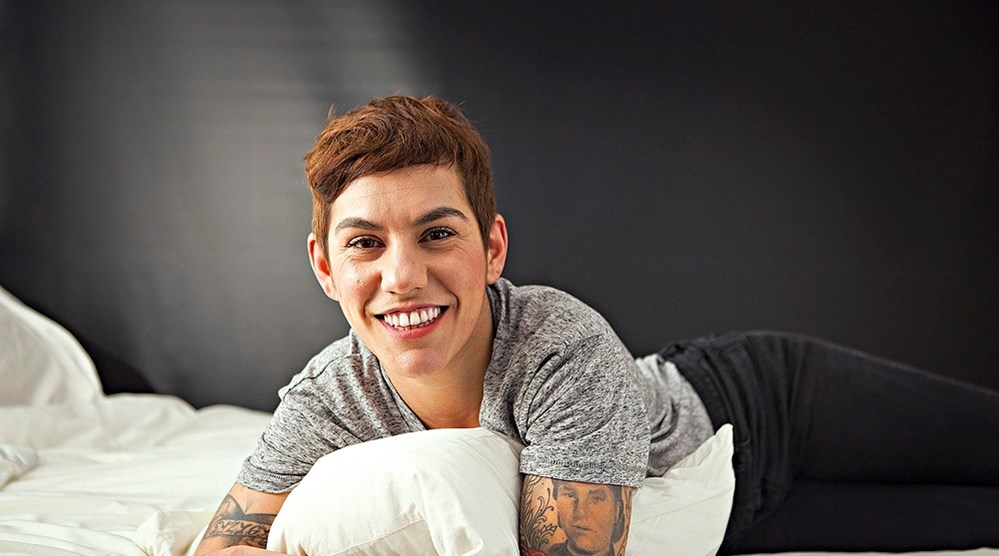
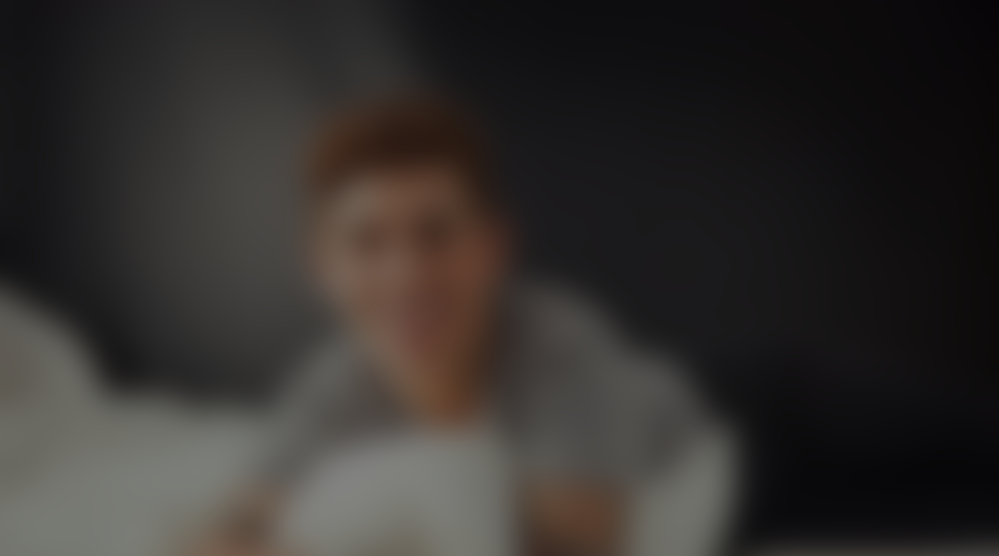
Updates template

diff --git a/assets/css/main.css b/assets/css/main.css
@@ -15,7 +15,7 @@ a:hover {
 
 header {
     width: 100%;
-    margin-top: 50px;
+    margin-top: 120px;
     min-height: 100px;
     margin-left: 20px;
 }
@@ -32,6 +32,24 @@ h1.t-large {
 h1.t-small {
     font-size: 2.3em;
     font-size: 8vw;
+}
+
+/********
+ * Menu *
+ ********/
+
+ul#left-menu {
+    background-color: #1a1a1a;
+    padding-top: 12px;
+}
+
+
+ul#left-menu li > a {
+    color: inherit;
+}
+
+ul.menu li a, ul.menu li button {
+    outline: none;
 }
 
 /**************
@@ -51,11 +69,11 @@ h1.t-small {
     -o-background-size: cover;
     background-size: cover;
 
-    -webkit-filter : blur(20px) brightness(0.5);
-    -moz-filter    : blur(20px) brightness(0.5);
-    -o-filter      : blur(20px) brightness(0.5);
-    -ms-filter     : blur(20px) brightness(0.5);
-    filter         : blur(20px) brightness(0.5);
+    /* -webkit-filter : blur(20px) brightness(0.5); */
+    /* -moz-filter    : blur(20px) brightness(0.5); */
+    /* -o-filter      : blur(20px) brightness(0.5); */
+    /* -ms-filter     : blur(20px) brightness(0.5); */
+    /* filter         : blur(20px) brightness(0.5); */
 }
 
 /*
@@ -211,4 +229,66 @@ div.share.fb {
 }
 div.like.fb {
     margin-top: -3px;
+}
+
+#topbar {
+    position: fixed;
+    z-index: 100;
+    width: 100%;
+    background: #1a1a1a;
+    top: 0;
+}
+
+#topbar .ink-navigation ul.menu li > a {
+    line-height: 50px;
+    font-size: 25px;
+    padding-top: 5px;
+    padding-bottom: 5px;
+}
+
+#right-column {
+    position: relative;
+    margin-left: 20px;
+}
+
+#topbar .ink-navigation ul.black li button.fa-bars {
+    background: 0 0;
+    font-size: 1.6em;
+    color: #bbb;
+    border: 0;
+    padding: .8em .8em .8em 0;
+    float: left;
+}
+
+body.ink-drawer .left-drawer li>a, body.ink-drawer .right-drawer li>a {
+    display: block;
+    padding: 6px 15px;
+    color: #bbb;
+    text-decoration: none;
+    text-transform: uppercase;
+    font-size: .875em;
+}
+
+body.ink-drawer .left-drawer li, body.ink-drawer .right-drawer li {
+    display: block;
+    margin: 0;
+    font-weight: 300;
+}
+
+body.ink-drawer .left-drawer ul, body.ink-drawer .right-drawer ul {
+    margin: 59px 0 0;
+    padding: 0;
+    list-style-type: none;
+}
+
+body.ink-drawer.push.left .content-drawer, body.ink-drawer.push.left .left-drawer {
+    -webkit-transform: translate(220px,0);
+    -moz-transform: translate(220px,0);
+    -ms-transform: translate(220px,0);
+    -o-transform: translate(220px,0);
+    transform: translate(220px,0);
+}
+
+li:focus {
+    outline: none;
 }

diff --git a/config.js b/config.js
@@ -24,6 +24,21 @@ exports.config = {
     tmpPath           : './tmp',
     defaultClipMargin : '2',
     soundEditCommand  : 'audacity',
+    toplinks: [
+        {
+            link: 'http://bussaco.botoes.co',
+            title: 'Bussaco'
+        },{
+            link: 'http://renato.botoes.co',
+            title: 'Renato'
+        },{
+            link: 'http://senhorpe.botoes.co',
+            title: 'Senhor Pé'
+        },{
+            link: 'http://aleixo.botoes.co',
+            title: 'Aleixo'
+        }
+    ],
     server: {
         port: 10111
     }
